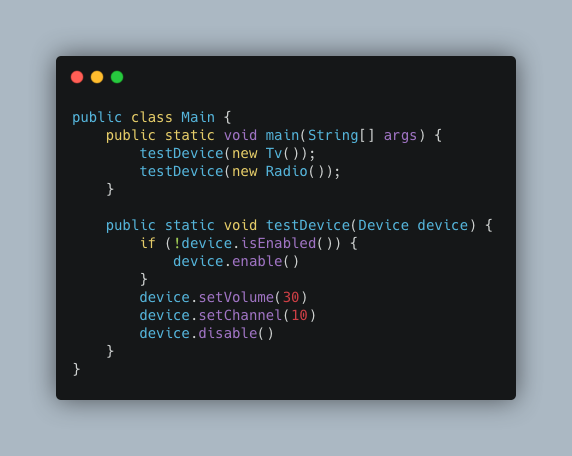
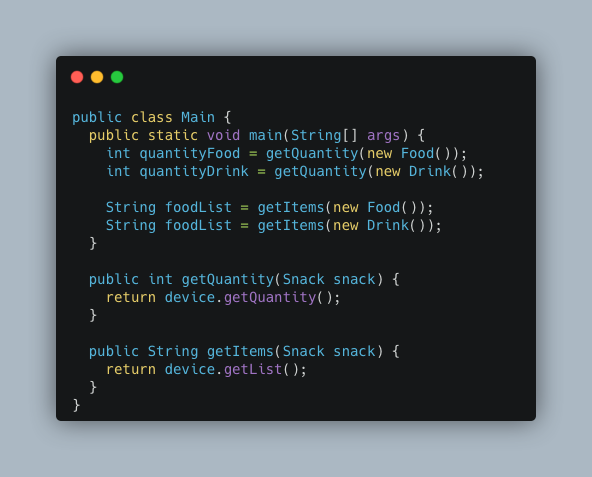
atualização exemplo bridge.

Changed region(s): [[0.0892, 0.0921, 0.9213, 0.8904], [0.5647, 0.7061, 0.6538, 0.7675], [0.1486, 0.6447, 0.1783, 0.6754]]

diff --git a/docs/pages/fase_03/GOF_estrutural_bridge.md b/docs/pages/fase_03/GOF_estrutural_bridge.md
@@ -30,21 +30,21 @@ Basicamente este método extrai uma das dimensões de uma hierarquia em uma clas
 
 Abaixo, temos um exemplo de implementação do padrão GoF Bridge em Java:
 
-![Interface Device](../../assets/images/deviceInterface.png)
+![Interface Device](../../assets/images/snackInterface.png)
 
-A interface Device se comporta como uma interface comum para todos os dispositivos. Nela, temos as funções desempenhadas por cada dispositivo.
+A interface Snack se comporta como uma interface comum para todos as comidas. Nela, temos as funções disponíveis nas comidas.
 
-![Implementação TV](../../assets/images/tvImplementation.png)
+![Implementação Food](../../assets/images/foodImplementation.png)
 
-A classe TV vai ser responsável por implementar a classe device, apresentando as funções comuns entre os devices. Dessa forma, é possível passar um objeto do tipo device para uma função, aumentando o reaproveitamento de código.
+A classe Food vai ser responsável por implementar a interface Snack, apresentando as funções comuns entre os Snacks. Dessa forma, é possível passar um objeto que implemente a interface Snack para uma função, aumentando o reaproveitamento de código.
 
-![Implementação Radio](../../assets/images/radioImplementation.png)
+![Implementação Drink](../../assets/images/drinkImplementation.png)
 
-A classe rádio também implementa a interface Device, pois é um tipo de Device e apresenta características e funcionalidades semelhantes à TV. Todavia, ela implementa os métodos também presentes na TV de forma diferente.
+A classe Drink também implementa a interface Snack, pois é um tipo de Snack e apresenta características e funcionalidades semelhantes à Food. Todavia, ela implementa os métodos também presentes na Food de forma diferente.
 
 ![Exemplo de Implementação](../../assets/images/implementationExample.png)
 
-Acima, temos um exemplo de utilização do padrão Bridge, onde são passadas para a chamada da função os objetos que são instâncias de classes que implementam a interface. Dessa forma, é possível utilizar os métodos presentes na interface tanto para a TV quanto para o rádio.
+Acima, temos um exemplo de utilização do padrão Bridge, onde são passadas para a chamada da função os objetos que são instâncias de classes que implementam a interface. Dessa forma, é possível utilizar os métodos presentes na interface tanto para a Food quanto para o Drink.
 
 ## Conclusão
 
